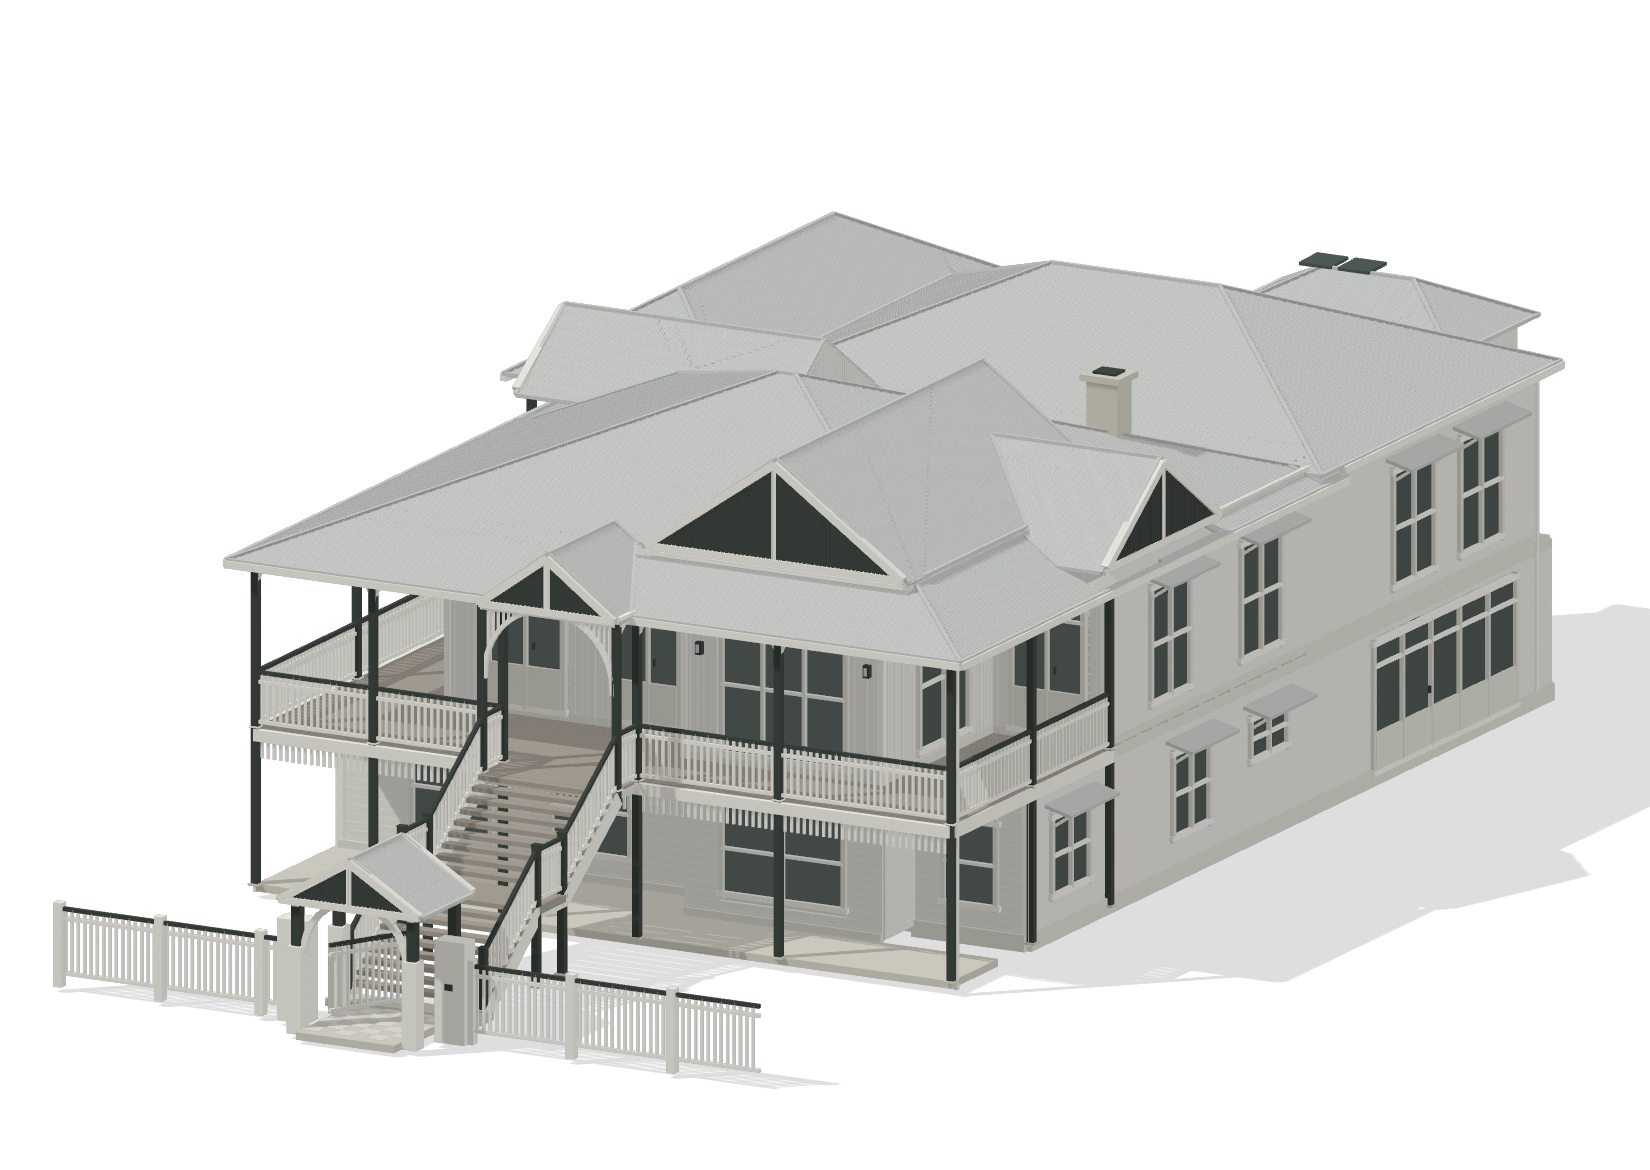
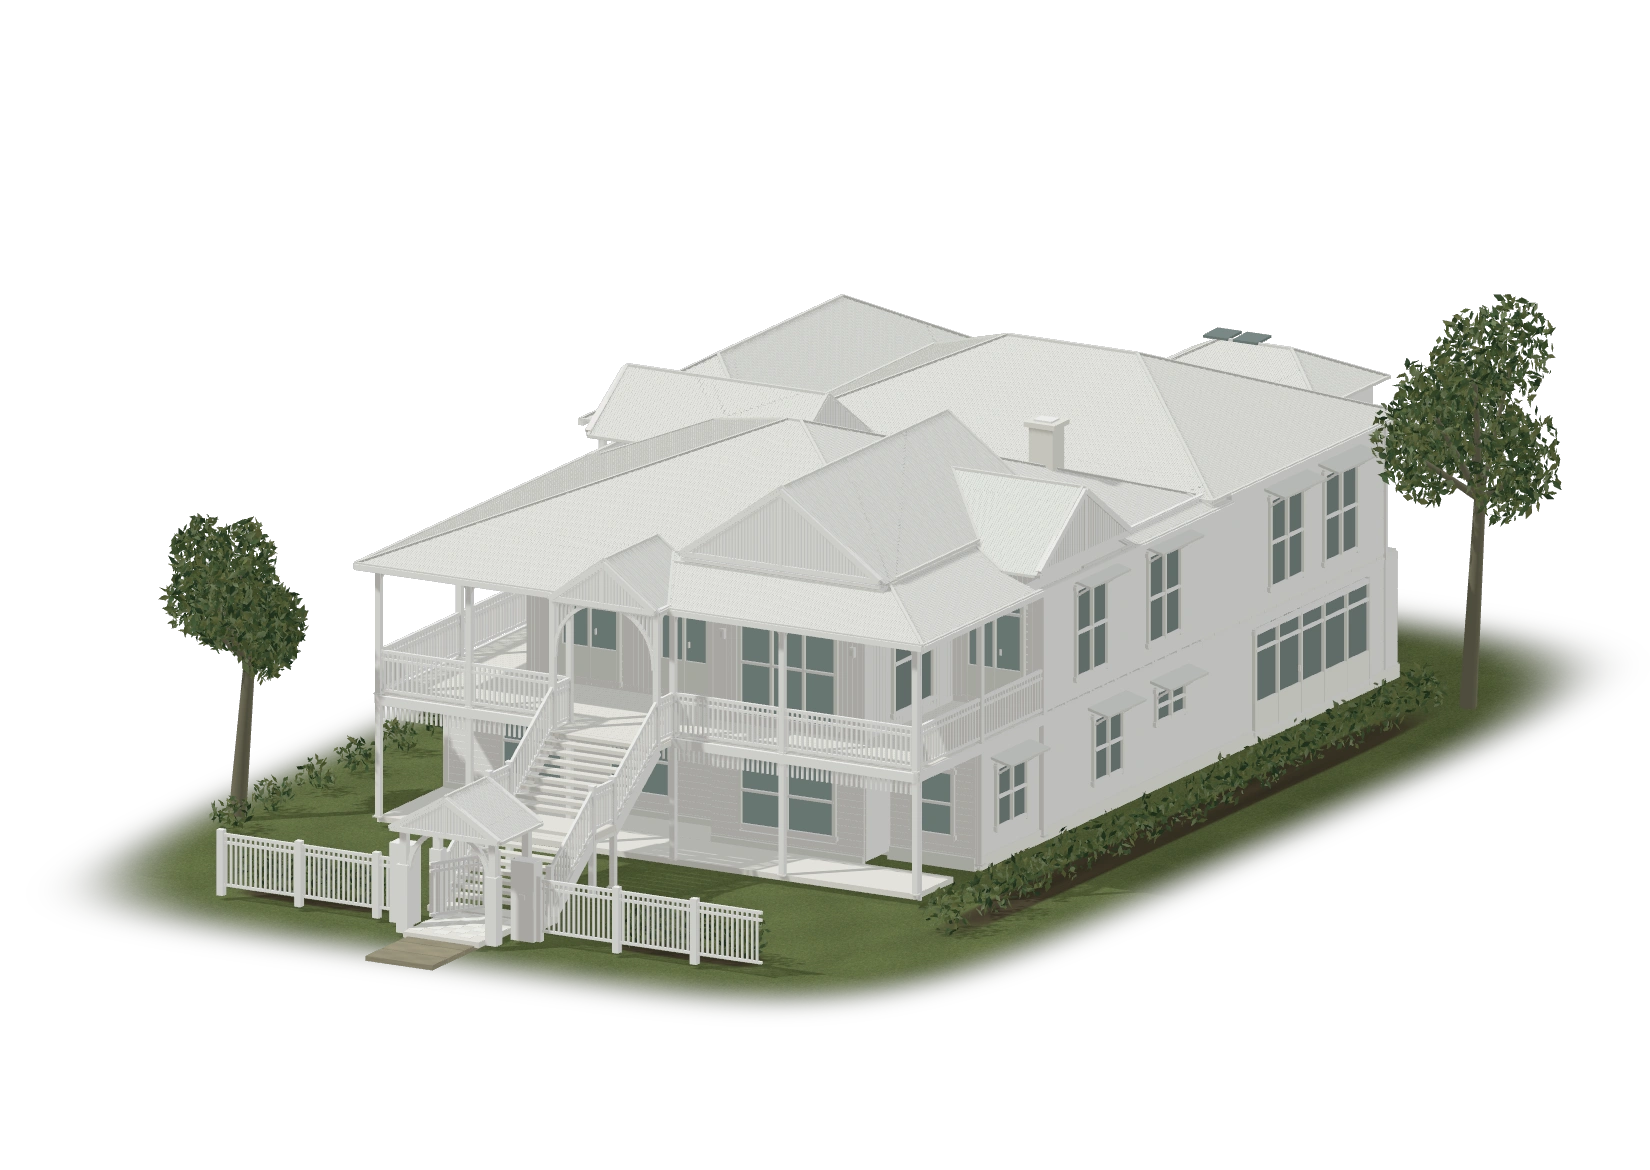
Add landscaped setting and full white finish to Croyde model

diff --git a/src/three/CroydeLandscape.tsx b/src/three/CroydeLandscape.tsx
@@ -1,0 +1,188 @@
+import { useEffect, useLayoutEffect, useMemo, useRef } from 'react'
+import * as THREE from 'three'
+import { FRAME_BOUNDS } from './frameMembers'
+
+export const GARDEN_TREES = [
+  { x: 10, z: -11.7, height: 9.6, width: 1.85 },
+  { x: -10.5, z: 11, height: 7, width: 1.4 },
+] as const
+
+/** An illustrative garden, not a survey of the property's landscaping.
+ * All textures are generated locally; the live scene and stills use the same
+ * seeded planting. Leaves, branches and paving each share one draw call. */
+function random(seed: number) {
+  return () => {
+    seed = (Math.imul(1664525, seed) + 1013904223) | 0
+    return (seed >>> 0) / 4294967296
+  }
+}
+
+function surface(kind: 'lawn' | 'stone' | 'soil') {
+  const canvas = document.createElement('canvas')
+  canvas.width = canvas.height = 512
+  const ctx = canvas.getContext('2d')!
+  const rng = random(kind === 'lawn' ? 52 : 197)
+  const base = kind === 'lawn' ? [100, 115, 66] : kind === 'stone' ? [181, 177, 158] : [72, 64, 45]
+  const data = ctx.createImageData(512, 512)
+  for (let y = 0; y < 512; y++) for (let x = 0; x < 512; x++) {
+    const n = (rng() - 0.5) * 32 + Math.sin(x / 48) * Math.cos(y / 63) * 6
+    const i = (y * 512 + x) * 4
+    data.data[i] = base[0] + n
+    data.data[i + 1] = base[1] + n
+    data.data[i + 2] = base[2] + n * 0.7
+    data.data[i + 3] = 255
+  }
+  ctx.putImageData(data, 0, 0)
+  if (kind === 'lawn') {
+    for (let i = 0; i < 28000; i++) {
+      const x = rng() * 512, y = rng() * 512
+      ctx.strokeStyle = rng() > 0.5 ? 'rgba(167,173,107,.32)' : 'rgba(36,61,30,.3)'
+      ctx.lineWidth = 0.5 + rng() * 0.7
+      ctx.beginPath()
+      ctx.moveTo(x, y)
+      ctx.lineTo(x + (rng() - 0.5) * 3, y - 1 - rng() * 4)
+      ctx.stroke()
+    }
+  }
+  const texture = new THREE.CanvasTexture(canvas)
+  texture.colorSpace = THREE.SRGBColorSpace
+  texture.wrapS = texture.wrapT = THREE.RepeatWrapping
+  texture.repeat.set(kind === 'lawn' ? 5 : 1, kind === 'lawn' ? 7 : 1)
+  texture.anisotropy = 4
+  return texture
+}
+
+/** Fade the ground into the page, rather than giving the garden a model plinth. */
+function groundMask() {
+  const canvas = document.createElement('canvas')
+  canvas.width = canvas.height = 256
+  const ctx = canvas.getContext('2d')!
+  const data = ctx.createImageData(256, 256)
+  for (let y = 0; y < 256; y++) for (let x = 0; x < 256; x++) {
+    const nx = Math.abs((x - 127.5) / 127.5), ny = Math.abs((y - 127.5) / 127.5)
+    const edge = Math.pow(Math.pow(nx, 5) + Math.pow(ny, 5), 0.2)
+    const alpha = THREE.MathUtils.smoothstep(1 - edge, 0, 0.22)
+    const i = (y * 256 + x) * 4
+    data.data[i] = data.data[i + 1] = data.data[i + 2] = alpha * 255
+    data.data[i + 3] = 255
+  }
+  ctx.putImageData(data, 0, 0)
+  return new THREE.CanvasTexture(canvas)
+}
+
+type Instance = { p: [number, number, number]; s: [number, number, number]; r?: [number, number, number]; color: string }
+function Instances({ name, items, geometry, material, shadows = true }: {
+  name: string; items: Instance[]; geometry: THREE.BufferGeometry; material: THREE.Material; shadows?: boolean
+}) {
+  const ref = useRef<THREE.InstancedMesh>(null)
+  useLayoutEffect(() => {
+    const mesh = ref.current!
+    const object = new THREE.Object3D(), color = new THREE.Color()
+    items.forEach((item, i) => {
+      object.position.set(...item.p)
+      object.scale.set(...item.s)
+      object.rotation.set(...(item.r ?? [0, 0, 0]))
+      object.updateMatrix()
+      mesh.setMatrixAt(i, object.matrix)
+      mesh.setColorAt(i, color.set(item.color))
+    })
+    mesh.instanceMatrix.needsUpdate = true
+    if (mesh.instanceColor) mesh.instanceColor.needsUpdate = true
+    mesh.computeBoundingSphere()
+  }, [items])
+  return <instancedMesh ref={ref} name={name} args={[geometry, material, items.length]} castShadow={shadows} receiveShadow />
+}
+
+function planting() {
+  const rng = random(417)
+  const leaves: Instance[] = [], branches: Instance[] = [], paving: Instance[] = []
+  const greens = ['#4d633a', '#657544', '#7b8551', '#344d32', '#829369', '#526d46']
+  // Each plant has an irregular silhouette of individual leaves, with no
+  // opaque spheres inside the canopy. The house remains visible between them.
+  function crown(x: number, y: number, z: number, rx: number, ry: number, rz: number, count: number, leafSize: number) {
+    for (let i = 0; i < count; i++) {
+      const a = rng() * Math.PI * 2, v = rng() * 2 - 1
+      const radial = Math.sqrt(1 - v * v), distance = Math.cbrt(rng())
+      const scale = leafSize * (0.65 + rng() * 0.65)
+      leaves.push({
+        p: [x + Math.cos(a) * radial * distance * rx, y + v * distance * ry, z + Math.sin(a) * radial * distance * rz],
+        s: [scale * 0.5, scale, scale],
+        r: [rng() * Math.PI, rng() * Math.PI * 2, rng() * Math.PI],
+        color: greens[Math.floor(rng() * greens.length)],
+      })
+    }
+  }
+  function branch(a: THREE.Vector3, b: THREE.Vector3, width: number) {
+    const q = new THREE.Quaternion().setFromUnitVectors(new THREE.Vector3(0, 1, 0), b.clone().sub(a).normalize())
+    const e = new THREE.Euler().setFromQuaternion(q)
+    branches.push({ p: a.clone().add(b).multiplyScalar(0.5).toArray(), s: [width, a.distanceTo(b), width], r: [e.x, e.y, e.z], color: '#7b7863' })
+  }
+  function tree(x: number, z: number, height: number, width: number) {
+    const base = new THREE.Vector3(x, 0, z), fork = new THREE.Vector3(x + 0.25, height * 0.53, z - 0.12)
+    branch(base, fork, 0.22)
+    for (let j = 0; j < 9; j++) {
+      const angle = j / 9 * Math.PI * 2 + rng() * 0.5
+      const tip = new THREE.Vector3(x + Math.cos(angle) * width * 0.62, height * (0.55 + rng() * 0.33), z + Math.sin(angle) * width * 0.66)
+      branch(fork, tip, 0.065 + rng() * 0.045)
+      crown(tip.x, tip.y + 0.4, tip.z, width * (0.45 + rng() * 0.2), height * 0.14, width * 0.58, 410, 0.3)
+    }
+  }
+  // Trees stand outside the verandah footprint. These positions stay fixed
+  // when switching views; this is one garden, not a camera-facing backdrop.
+  GARDEN_TREES.forEach(({ x, z, height, width }) => tree(x, z, height, width))
+
+  // Low beds keep the entrance, the white fence and both stair flights clear.
+  for (const side of [-1, 1]) for (let i = 0; i < 6; i++) {
+    const x = side < 0 ? -6.8 + i * 0.6 : 3.1 + i * 0.65
+    crown(x, 0.46 + rng() * 0.12, 16.4 + rng() * 0.15, 0.6, 0.55, 0.5, 110, 0.23)
+  }
+  for (let i = 0; i < 13; i++) {
+    crown(9.1 + rng() * 0.25, 0.5, -11 + i * 1.9, 0.55, 0.6, 0.8, 100, 0.25)
+  }
+  for (let i = 0; i < 6; i++) crown(-10.1, 0.35, 2 + i * 2, 0.5, 0.4, 0.6, 80, 0.23)
+  // Limestone slabs align to the existing gate and the foot of the front stair.
+  for (let i = 0; i < 6; i++) paving.push({ p: [-0.7, -0.04, 16.4 + i * 0.79], s: [1.8, 0.12, 0.75], color: i % 2 ? '#e6e2d7' : '#eeeade' })
+  // A short garden path continues from the rear stair to the open lawn.
+  for (let i = 0; i < 4; i++) paving.push({ p: [-7.05, -0.04, -12.55 - i * 0.85], s: [1.35, 0.12, 0.72], color: '#e6e2d7' })
+  return { leaves, branches, paving }
+}
+
+export function CroydeLandscape() {
+  const resources = useMemo(() => {
+    const lawn = surface('lawn'), stone = surface('stone'), soil = surface('soil'), mask = groundMask()
+    const leaf = new THREE.BufferGeometry()
+    // A folded leaf catches light on two planes, with pointed ends.
+    leaf.setAttribute('position', new THREE.Float32BufferAttribute([0, -.5, 0, -.45, 0, 0, 0, 0, .12, .45, 0, 0, 0, .5, 0], 3))
+    leaf.setIndex([0, 1, 2, 0, 2, 3, 1, 4, 2, 2, 4, 3])
+    leaf.computeVertexNormals()
+    return {
+      lawn, stone, soil, mask, leaf,
+      box: new THREE.BoxGeometry(1, 1, 1),
+      branch: new THREE.CylinderGeometry(0.65, 1, 1, 5),
+      leafMat: new THREE.MeshStandardMaterial({ color: 'white', roughness: 0.92, side: THREE.DoubleSide }),
+      woodMat: new THREE.MeshStandardMaterial({ color: 'white', roughness: 1 }),
+      stoneMat: new THREE.MeshStandardMaterial({ map: stone, bumpMap: stone, bumpScale: 0.025, roughness: 0.96 }),
+    }
+  }, [])
+  const items = useMemo(planting, [])
+  useEffect(() => () => {
+    Object.values(resources).forEach((resource) => resource.dispose())
+  }, [resources])
+  return (
+    <group name="croyde-landscape" position={[0, -FRAME_BOUNDS.centreY, -FRAME_BOUNDS.centreZ]}>
+      <mesh name="croyde-lawn" rotation={[-Math.PI / 2, 0, 0]} position={[0, -0.12, 0.8]} receiveShadow>
+        <planeGeometry args={[27, 44]} />
+        <meshStandardMaterial map={resources.lawn} bumpMap={resources.lawn} bumpScale={0.065} alphaMap={resources.mask} transparent depthWrite={false} roughness={1} />
+      </mesh>
+      {[[ -5.3, 16.4, 4.4, 1.3 ], [4.7, 16.4, 4.4, 1.3], [9.1, 0.4, 1.4, 26]].map(([x, z, w, d], i) => (
+        <mesh key={i} rotation={[-Math.PI / 2, 0, 0]} position={[x, -0.105, z]} receiveShadow>
+          <planeGeometry args={[w, d]} />
+          <meshStandardMaterial map={resources.soil} alphaMap={resources.mask} transparent depthWrite={false} roughness={1} />
+        </mesh>
+      ))}
+      <Instances name="croyde-foliage" items={items.leaves} geometry={resources.leaf} material={resources.leafMat} />
+      <Instances name="croyde-branches" items={items.branches} geometry={resources.branch} material={resources.woodMat} />
+      <Instances name="croyde-path" items={items.paving} geometry={resources.box} material={resources.stoneMat} shadows={false} />
+    </group>
+  )
+}

diff --git a/src/three/TimberFrame.tsx b/src/three/TimberFrame.tsx
@@ -3,6 +3,7 @@ import { Canvas, useFrame, useThree } from '@react-three/fiber'
 import * as THREE from 'three'
 import { FRAME_BOUNDS, FRAME_MEMBERS, FRAME_VIEWS } from './frameMembers'
 import type { FrameView, MaterialKey } from './frameMembers'
+import { CroydeLandscape, GARDEN_TREES } from './CroydeLandscape'
 
 /** Croyde's white Federation house, assembled through scroll.
  * The live scene and its fallback share the photo-referenced member list.
@@ -10,18 +11,18 @@ import type { FrameView, MaterialKey } from './frameMembers'
 
 const LINE = '#05432a'
 
-/** White painted timber in neutral daylight. The charcoal gable infill and
- * soft silver roof preserve the contrast visible in the Croyde photographs. */
+/** A full white finish, requested for this architectural study. Small tonal
+ * differences and natural shadows reveal the joinery without dark trim. */
 const MATERIALS: Record<MaterialKey, { color: string; roughness: number }> = {
   frame: { color: '#b19b7b', roughness: 0.88 },
-  clad: { color: '#f5f4ef', roughness: 0.86 },
-  trim: { color: '#fffef9', roughness: 0.76 },
-  joinery: { color: '#ecece6', roughness: 0.78 },
-  deck: { color: '#b2aaa0', roughness: 0.9 },
-  roof: { color: '#e1e5e2', roughness: 0.72 },
-  glass: { color: '#56615f', roughness: 0.28 },
-  accent: { color: '#414945', roughness: 0.85 },
-  ground: { color: '#e0dcd2', roughness: 0.95 },
+  clad: { color: '#ffffff', roughness: 0.86 },
+  trim: { color: '#ffffff', roughness: 0.76 },
+  joinery: { color: '#fdfefa', roughness: 0.78 },
+  deck: { color: '#f5f5ef', roughness: 0.9 },
+  roof: { color: '#fafcf9', roughness: 0.72 },
+  glass: { color: '#839491', roughness: 0.3 },
+  accent: { color: '#ffffff', roughness: 0.82 },
+  ground: { color: '#f5f5ef', roughness: 0.95 },
 }
 
 const MATERIAL_KEYS = Object.keys(MATERIALS) as MaterialKey[]
@@ -68,7 +69,7 @@ function Building({ progress }: { progress: React.MutableRefObject<number> }) {
   }, [])
   const framePaint = useMemo(() => ({
     bare: new THREE.Color(MATERIALS.frame.color),
-    finished: new THREE.Color('#ecece6'),
+    finished: new THREE.Color('#ffffff'),
   }), [])
 
   /** Which instanced mesh each member belongs to, and its slot within it. */
@@ -127,10 +128,9 @@ function Building({ progress }: { progress: React.MutableRefObject<number> }) {
     const p = progress.current
 
     if (lineMat.current) {
-      // The drawing hands over to solid material through the middle of the
-      // section, and a trace of it stays: the drawing does not stop being true
-      // once the thing is built.
-      lineMat.current.opacity = 1 - smoothstep(0.48, 0.9, p) * 0.97
+      // The drawing hands over to solid material. At completion the white
+      // paint and its shadows define the edges, without a green wire outline.
+      lineMat.current.opacity = 1 - smoothstep(0.48, 0.9, p)
     }
 
     const solidOpacity = smoothstep(0.34, 0.68, p)
@@ -261,20 +261,20 @@ function Daylight({ shadows }: { shadows: boolean }) {
       {/* Neutral sky and ground bounce keep shaded white walls white rather
           than tinting them with the site's green. The key reveals board laps,
           balusters and the depth of the sheltered verandahs. */}
-      <hemisphereLight args={['#ffffff', '#dedbd4', 1.35]} />
+      <hemisphereLight args={['#ffffff', '#e9e7dc', 1.35]} />
       <directionalLight
         key={shadowSize}
         position={[-18, 26, 17]}
-        intensity={1.25}
+        intensity={1.45}
         color="#fffefa"
         castShadow={shadows}
         shadow-mapSize={[shadowSize, shadowSize]}
         shadow-bias={-0.0003}
         shadow-normalBias={0.025}
-        shadow-camera-left={-20}
-        shadow-camera-right={20}
-        shadow-camera-top={20}
-        shadow-camera-bottom={-20}
+        shadow-camera-left={-27}
+        shadow-camera-right={27}
+        shadow-camera-top={27}
+        shadow-camera-bottom={-27}
         shadow-camera-near={0.5}
         shadow-camera-far={80}
       />
@@ -315,21 +315,7 @@ export default function TimberFrame({
 
       <Daylight shadows={shadows} />
 
-      {shadows && (
-        // Catches the shadow and nothing else, so the building sits on the wash
-        // ground rather than floating above it.
-        <mesh
-          rotation={[-Math.PI / 2, 0, 0]}
-          // On the ground, not under the floor: the house is high-set, and a
-          // shadow under the floor line would float a metre and a half up.
-          position={[0, FRAME_BOUNDS.ground - FRAME_BOUNDS.centreY - 0.005, 0]}
-          receiveShadow
-        >
-          <planeGeometry args={[44, 44]} />
-          <shadowMaterial opacity={0.13} />
-        </mesh>
-      )}
-
+      <CroydeLandscape />
       <Building progress={progress} />
     </Canvas>
   )
@@ -356,6 +342,16 @@ function Fit({ view }: { view: FrameView }) {
       scale.set(...member.s)
       matrix.compose(position, quaternion, scale)
       for (const corner of UNIT_CORNERS) points.push(new THREE.Vector3(...corner).applyMatrix4(matrix))
+    }
+    // Include the garden's useful extent, keeping trees and the gate path in
+    // frame in both views. The soft outer lawn fades beyond this silhouette.
+    for (const [x, y, z] of [[-10.5, 0, 18.5], [10.5, 0, 18.5], [-0.7, 0, 21], [-10, 0, -17], [10, 0, -17]]) {
+      points.push(new THREE.Vector3(x, y - FRAME_BOUNDS.centreY, z - FRAME_BOUNDS.centreZ))
+    }
+    for (const tree of GARDEN_TREES) {
+      for (const x of [-1, 1]) for (const z of [-1, 1]) {
+        points.push(new THREE.Vector3(tree.x + x * tree.width * 1.3, tree.height * 1.06 - FRAME_BOUNDS.centreY, tree.z + z * tree.width * 1.3 - FRAME_BOUNDS.centreZ))
+      }
     }
     return points
   }, [])

diff --git a/src/sections/Process.module.css b/src/sections/Process.module.css
@@ -161,7 +161,13 @@
 
 /* The drawing fills the box above the dimension line, which sits on the bottom
    edge of it. Absolute, so adding the line does not shrink the frame. */
-.scene { position: absolute; inset: 0 0 clamp(1.5rem, 3vh, 2.25rem); }
+.scene {
+  position: absolute;
+  inset: 0 0 clamp(1.5rem, 3vh, 2.25rem);
+  /* A quiet sky tint separates the white roof from the paper. The garden
+     itself lives in Three, so it keeps its depth in both viewing angles. */
+  background: radial-gradient(ellipse at 50% 48%, #d2dfd6 0%, rgba(210, 223, 214, 0.55) 35%, rgba(210, 223, 214, 0) 70%);
+}
 
 .sceneDim {
   position: absolute;

diff --git a/README.md b/README.md
@@ -1505,8 +1505,9 @@ pedestrian gatehouse. Window and door openings interrupt the board courses;
 terrace and fence railings leave real entry openings. Roof faces are intersected
 before their corrugated strips are emitted, retaining actual ridges and valleys.
 
-The finished house is warm white with pale metal roofs, charcoal accents and
-recessed glazing. Timber is visible during Frame and painted white during Finish.
+The finished house has white cladding, roofs, verandah posts, rails, gable infill,
+joinery and decks, with recessed grey-green glazing. Timber is visible during
+Frame and painted white during Finish.
 The street/garden controls and reversible scroll assembly remain. This is a
 photo-based architectural study, not a surveyed replica or a reconstruction of
 the actual renovation sequence. Hidden rear openings and construction are
@@ -1539,8 +1540,27 @@ Only the street-facing arch remains; a repeated rear arch made the porch trim
 appear doubled. Concave timber corbels replace the thin diagonal braces and
 connect to the post faces and roof beams, with none projecting past beam ends.
 The rear stairwell has supported corners and a complete
-landing guard. The charcoal trim remains part of the photographed house's
-palette. Both fallback renders are regenerated after these geometry corrections.
+landing guard. Both fallback renders are regenerated after these geometry corrections.
+
+#### White finish and garden setting, 6 November 2026
+
+The owner requested an all-white interpretation of the house. The original
+charcoal details now share its white finish; daylight and shadows retain the
+depth of the rails, board courses and roof. The drafting outline fades away
+completely at Finish. No rail, stair, gate or roof geometry was changed.
+
+`CroydeLandscape.tsx` adds textured lawn, low planting beds, two trees and stone
+paths aligned with the existing front gate and rear stair. This garden is an
+illustrative setting, not a claim about the property's actual landscaping.
+Seeded canvas textures and instanced leaves/branches are generated locally,
+with no external image requests, new dependencies or stock photographs.
+The trees stay in the same positions in both views. Camera fitting includes
+their canopies and the entry path; the lawn fades into the page and a muted
+sky tint behind the canvas separates the white roof from the page background.
+
+Both still images were regenerated from the live scene. They preserve the same
+garden and white finish for reduced motion and unavailable WebGL. The scroll
+sequence, view controls and separate Approach model remain unchanged.
 
 ### Temporary heritage explorer concept
 
